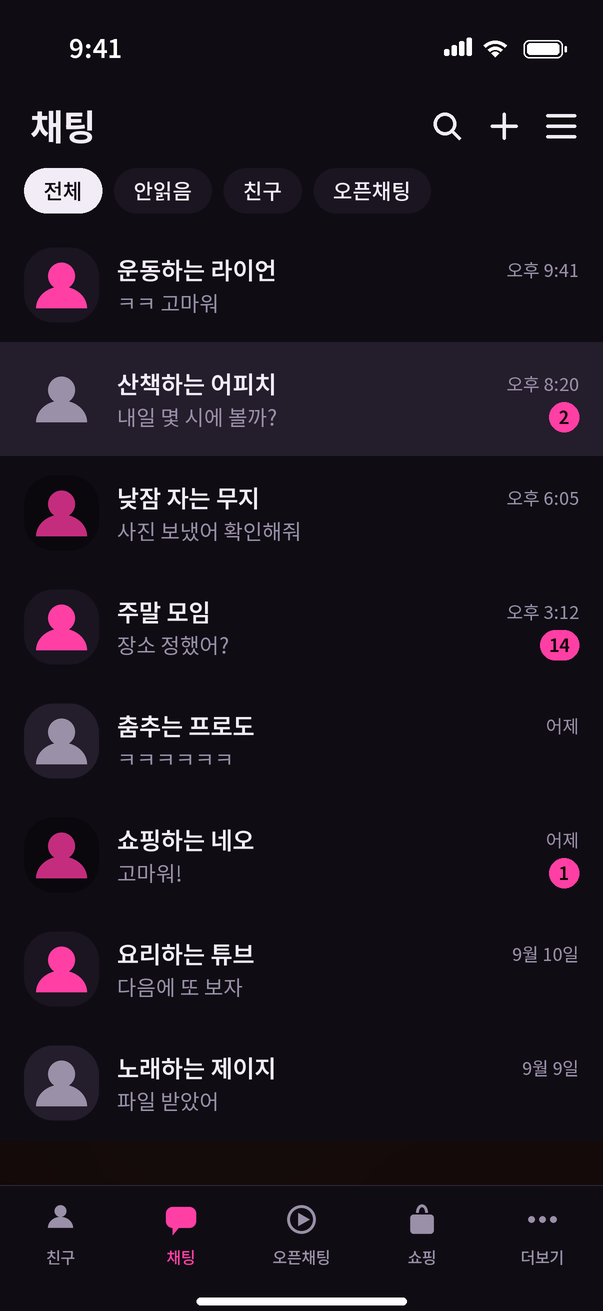
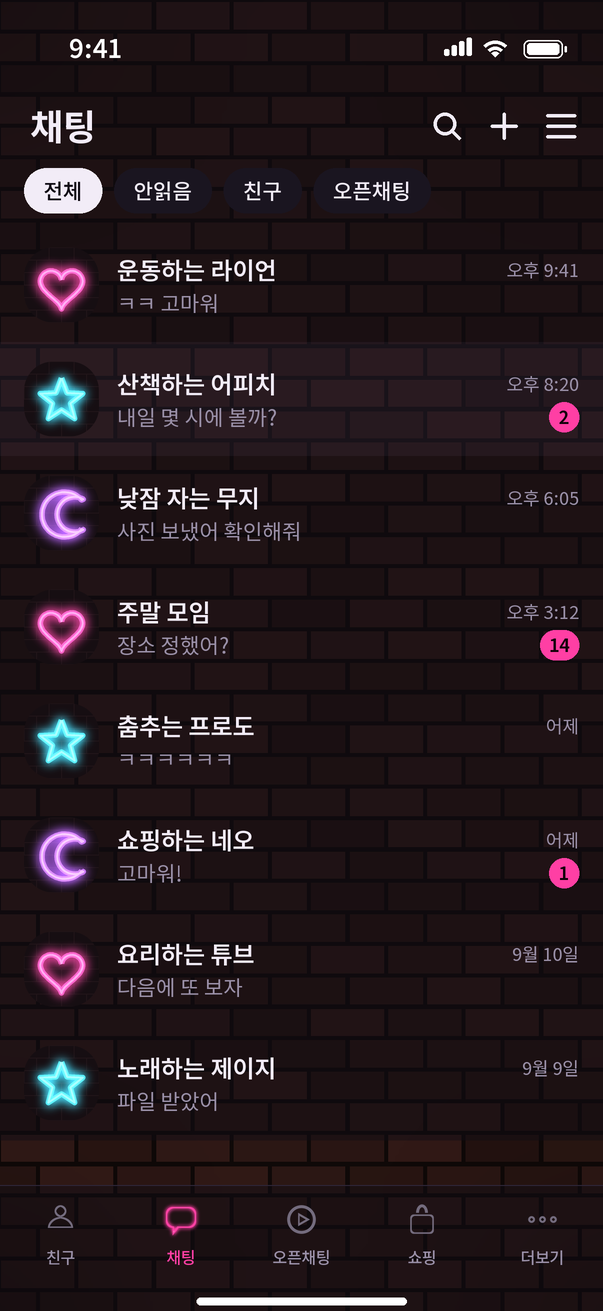
네온사인 목록 화면에 네온 프로필과 탭 아이콘을 넣고 벽을 비치게 한다
목록은 색만 바꾼 검은 판에 기본 사람 모양 프로필이 줄지어 있어서 채팅방과 달리 아무 테마나
같아 보였다. 목록에서 테마가 바꿀 수 있는 자리를 셋 다 쓴다.

- 기본 프로필 세 장을 하트·별·초승달 네온관으로 그린다(charbubble.PROFILES 의 neon). 보낸 색,
  받은 색, 벽 낙서의 셋째 색이다
- 탭 아이콘은 같은 도형의 테두리만 남긴 네온관이다(gen.tab_icon_for, tab_style='neon'). 선택된
  탭만 불이 켜진다. tab_style 이 없는 테마는 기존 tab_icon 을 그대로 부른다
- 목록 배경은 낙서를 뺀 벽돌 질감을 흐리지 않고 깔고(flat_list=False) 셀을 반투명(0.5)하게 둔다.
  줄눈만 반복되는 무늬라 칩 줄이나 광고 카드에 잘려도 자국이 안 남는다

말풍선·CSS·프로필·탭 아이콘·colors.xml·목록 배경 해시를 대조해, 바뀐 것은 네온사인 네 벌뿐이다.

diff --git a/tools/gen.py b/tools/gen.py
@@ -1060,7 +1060,7 @@ def gen_ios(t, root):
         name = 'maintabIco' + kind.capitalize()
         for suffix, col in (('', t['subtext']), ('Selected', t['accent'])):
             for scale in (2, 3):
-                tab_icon(kind, 28 * scale, col).save(
+                tab_icon_for(t, kind, 28 * scale, suffix == 'Selected').save(
                     os.path.join(img_dir, '%s%s@%dx.png' % (name, suffix, scale)))
         tab_lines.append("    -ios-%s-normal-icon-image: '%s.png';" % (kind, name))
         tab_lines.append("    -ios-%s-selected-icon-image: '%sSelected.png';"
@@ -1273,7 +1273,7 @@ def gen_android(t, root, code):
 
     for kind in TAB_KINDS:
         for suffix, col in (('', t['subtext']), ('_focused', t['accent'])):
-            tab_icon(kind, 84, col).save(
+            tab_icon_for(t, kind, 84, suffix == '_focused').save(
                 os.path.join(draw, 'theme_maintab_ico_%s%s_image.png' % (kind, suffix)))
 
     for i in range(3):
@@ -1529,6 +1529,51 @@ def tab_icon(kind, px, color, ss=4):
         raise ValueError('모르는 탭 아이콘: %s' % kind)
 
     return img.resize((px, px), Image.LANCZOS)
+
+
+def tab_icon_for(t, kind, px, selected):
+    """테마의 탭 아이콘. 보통은 보조색, 선택은 포인트색이다.
+
+    tab_style 이 없는 테마는 tab_icon 을 그대로 부른다 — 이미 나간 테마의 아이콘이 한 픽셀도
+    바뀌면 안 된다. 네온사인은 같은 도형을 네온관으로 그린다(neon_tab_icon).
+    """
+    col = t['accent'] if selected else t['subtext']
+    if t.get('tab_style') == 'neon':
+        return neon_tab_icon(kind, px, col, selected)
+    return tab_icon(kind, px, col)
+
+
+def neon_tab_icon(kind, px, color, lit):
+    """네온관 탭 아이콘. 기본 도형의 테두리만 관으로 남긴다.
+
+    선택된 탭은 관이 달아오르고 가운데가 하얗게 타며 빛이 번진다. 나머지는 불 꺼진 유리관이다 —
+    탭을 누를 때 불이 켜지는 것처럼 보인다. 채운 도형을 그대로 빛나게 하면 네온이 아니라
+    형광 스티커로 보여서 테두리만 남긴다. 가는 선(돋보기 테·원)은 깎아내면 사라지므로
+    선 굵기의 절반만 깎는다 — 굵은 면은 테두리만, 가는 선은 통째로 관이 된다.
+
+    기본 도형은 100 칸 네모의 14~86 안에 있어서 빛이 번질 여백이 있다.
+    """
+    S = px * 2
+    base = tab_icon(kind, S, color)
+    a = base.getchannel('A')
+    k = max(3, int(S * 0.036) * 2 + 1)
+    tube = ImageChops.subtract(a, a.filter(ImageFilter.MinFilter(k)))
+    out = Image.new('RGBA', (S, S), (0, 0, 0, 0))
+
+    def put(col, alpha):
+        lay = Image.new('RGBA', (S, S), rgb(col) + (255,))
+        lay.putalpha(alpha)
+        out.alpha_composite(lay)
+
+    if lit:
+        halo = tube.filter(ImageFilter.GaussianBlur(S * 0.045)).point(lambda v: min(255, int(v * 1.8)))
+        put(color, halo)
+        put(color, tube)
+        core = tube.filter(ImageFilter.MinFilter(max(3, k // 2 | 1)))
+        put(glow_tint(color, 0.75), core)
+    else:
+        put(mix(color, '#000000', 0.25), tube)
+    return out.resize((px, px), Image.LANCZOS)
 
 
 if __name__ == '__main__':

diff --git a/tools/charbubble.py b/tools/charbubble.py
@@ -654,9 +654,15 @@ def c_mailbox(p):
 
 CHARS = {'kongkong': c_kongkong, 'sock': c_sock, 'bulb': c_bulb, 'mailbox': c_mailbox}
 
+# 펜으로 그리지 않고 한 장을 통째로 만드는 프로필. 빛이 번지는 그림처럼 Pen 의 바탕 위 선 그리기로
+# 안 되는 것이 여기 온다. 이름 -> fn(t, idx, px)
+PROFILES = {}
+
 
 def profile(t, idx, px):
     """기본 프로필. 캐릭터를 바탕 세 가지 색 위에 그린다 — 세 장이 섞여 배정된다."""
+    if t['char'] in PROFILES:
+        return PROFILES[t['char']](t, idx, px)
     k = 3
     im = Image.new('RGB', (px * k, px * k), hexc(t['char_backs'][idx % 3])[:3])
     CHARS[t['char']](Pen(im, px * k / 100.0, t['char_outline']))
@@ -1114,3 +1120,44 @@ STYLES.update({
     'neon_electrode': dict(bw=40, bh=44, radius=12, draw=d_neon_electrode, features=f_neon_electrode),
     'neon_speech':    dict(bw=40, bh=44, radius=18, draw=d_neon_speech, features=f_neon_speech),
 })
+
+
+def p_neon(t, idx, px):
+    """네온사인 기본 프로필. 어두운 벽돌 조각 위에 하트·별·초승달 네온관 하나.
+
+    세 장이 하트는 보낸 색, 별은 받은 색, 초승달은 벽 낙서의 셋째 색이다. 목록 화면에서 가장 많이
+    반복되는 그림이라, 색만 바꾼 기본 사람 모양일 때는 목록이 테마와 따로 놀았다.
+    36pt 에서 읽혀야 해서 관을 굵게(폭의 7.5%) 두고 모양은 윤곽이 단순한 것만 쓴다.
+    """
+    import scenes
+    g = _g()
+    k = 3
+    S = px * k
+    img = Image.new('RGB', (S, S), (22, 14, 18))
+    d = ImageDraw.Draw(img)
+    bh = S / 6
+    mortar = (34, 22, 26)
+    for j in range(7):                                   # 벽돌 줄눈. 아주 옅게
+        y = j * bh
+        d.line([(0, y), (S, y)], fill=mortar, width=max(1, S // 90))
+        off = S / 6 if j % 2 else 0
+        for i in range(4):
+            x = off + i * S / 3
+            d.line([(x, y), (x, y + bh)], fill=mortar, width=max(1, S // 90))
+    kind = ('heart', 'star', 'moon')[idx % 3]
+    col = (_c(t['send']), _c(t['recv']), t.get('neon_third', '#B45CFF'))[idx % 3]
+    lay = Image.new('RGB', (S, S))
+    core = Image.new('RGB', (S, S))
+    ld, cd = ImageDraw.Draw(lay), ImageDraw.Draw(core)
+    cx = S / 2 + (S * 0.04 if kind == 'moon' else 0)
+    for line in scenes._neon_doodle(kind, cx, S / 2 + S * 0.02, S * 0.3):
+        ld.line(line, fill=g.rgb(col), width=int(S * 0.075), joint='curve')
+        cd.line(line, fill=g.rgb(g.glow_tint(col, 0.75)), width=int(S * 0.028), joint='curve')
+    halo = lay.filter(ImageFilter.GaussianBlur(S * 0.07)).point(lambda v: min(255, int(v * 1.7)))
+    img = ImageChops.screen(img, halo)
+    img = ImageChops.screen(img, lay)
+    img = ImageChops.screen(img, core)
+    return img.resize((px, px), Image.LANCZOS).convert('RGBA')
+
+
+PROFILES['neon'] = p_neon

diff --git a/tools/themes.py b/tools/themes.py
@@ -1757,7 +1757,14 @@ def _neon_theme(no, variant, style, material, recv, send, recv_text, send_text, 
                 accent=send, accent_dim=accent_dim,
                 send=(send, send), send_alt=(send, send), recv=(recv, recv), recv_alt=(recv, recv),
                 send_text=send_text, recv_text=recv_text,
-                chat_bg=wall(5, 0.45), main_bg=wall(4, 0.6), passcode_bg=wall(6, 0.12))
+                # 프로필은 벽 낙서의 셋째 색까지 세 장. 탭 아이콘도 네온관이다
+                char='neon', neon_third=signs[2][1], tab_style='neon',
+                # 목록 배경은 셀·칩·광고 카드에 잘리므로 낙서를 빼고 벽돌 질감만 둔다. 줄눈만 반복되는
+                # 무늬라 어디서 잘려도 같아서 흐리지 않고(flat_list=False), 셀을 반투명하게 해 벽이 비치게 한다
+                flat_list=False, cell_alpha=0.5,
+                chat_bg=wall(5, 0.45), passcode_bg=wall(6, 0.12),
+                main_bg=('neonwall', '#3A1F1B', '#140C0B',
+                         dict(signs=[], count=0, dim=0.22, dim_to='#000000')))
 
 
 THEMES += [

diff --git a/tools/preview.py b/tools/preview.py
@@ -493,7 +493,7 @@ def chat_list(t):
     for i, (label, kind) in enumerate(tabs):
         cx = PW * (i + 0.5) / len(tabs)
         c = t['accent'] if i == 1 else t['subtext']
-        ic = gen.tab_icon(kind, u(28), c)
+        ic = gen.tab_icon_for(t, kind, u(28), i == 1)
         img.paste(ic, (u(cx - 14), u(PH - TAB_H + 9)), ic)
         text(d, cx, PH - TAB_H + 48, label, 10.5, rgb(c), 500, 'mm')
 

diff --git a/CLAUDE.md b/CLAUDE.md
@@ -178,7 +178,13 @@ release.ps1         → 태그 + 릴리스 자산 첨부
 **네온사인도 예외다.** 네 벌이 곧 말풍선 디자인 네 가지(이중관·간판·전극·말꼬리)다 —
 스테인드 글래스가 색 네 개로 네 벌을 채운 것과 같다. 네온은 밝은 바탕에서 빛이 안 보여서
 캐릭터 계열의 밝음/어두움 축이 맞지 않는다. 네 벌 모두 어두운 바탕에 네온 벽 배경을 깔고,
-글로우는 재질로 붙는다(관은 `tube`, 간판은 `sign`). 기본 프로필 캐릭터는 아직 없다.
+글로우는 재질로 붙는다(관은 `tube`, 간판은 `sign`).
+
+**목록 화면도 테마로 읽혀야 한다.** 네온사인 목록은 한때 색만 바꾼 검은 판에 기본 사람 모양 프로필이
+줄지어 있어서, 채팅방과 달리 아무 테마나 같아 보였다. 목록에서 테마가 바꿀 수 있는 자리는
+배경 그림, 셀 투명도, 기본 프로필 세 장, 탭 아이콘이다 — 셋 다 쓴다. 프로필은 하트·별·초승달
+네온관(`charbubble.PROFILES`), 탭 아이콘은 같은 도형의 테두리만 남긴 네온관(`tab_style='neon'`,
+선택된 탭만 불이 켜진다), 목록 배경은 낙서를 뺀 벽돌 질감을 흐리지 않고 깔고 셀을 반투명(0.5)하게 둔다.
 
 예외는 여기 적어두고, 적지 않은 계열은 전부 네 벌이어야 한다.
 
@@ -345,7 +351,7 @@ GitHub 앱에서 WebP 가 뜨는지는 확인 전이다.
 크게 흐리고 대비를 죽여 내보낸다(`gen.background(..., flat=True)`).
 채팅방과 잠금화면은 위에 얹히는 게 적어서 그림 그대로 쓴다.
 
-**방향만 있고 굴곡이 없는 질감은 흐리지 않는다**(`flat_list=False`). 나무결이 그렇다 —
+**방향만 있고 굴곡이 없는 질감은 흐리지 않는다**(`flat_list=False`). 나무결과 벽돌 줄눈이 그렇다 —
 어디서 잘라도 같은 무늬라 위에 무엇이 얹혀도 잘린 자국이 안 생긴다. 흐리면 그냥 갈색 판이 되어
 질감을 넣은 뜻이 없어진다. 옹이나 판자 이음새는 그 성질을 깨므로 목록 쪽 그림에서는 뺀다.
 

diff --git a/docs/spec.md b/docs/spec.md
@@ -115,8 +115,8 @@
 | **도형 무늬** | 큰 도형을 겹침 (`geo`) | 도형 |
 | **가장자리 빛** | 화면 테두리에서 안쪽으로 번지는 빛 | 글로우 있는 테마 |
 | **네 칸 다른 색** | 보통/눌림/그룹 칸에 서로 다른 색 | 믹스드, 캔디 팝 |
-| **탭 아이콘** | 7종 × 보통/선택을 팔레트 색으로 그림 | 전부 |
-| **기본 프로필 3장** | 색이 다른 세 장. 앱이 친구마다 돌려 배정 | 전부 |
+| **탭 아이콘** | 7종 × 보통/선택을 팔레트 색으로 그림. 네온사인은 같은 도형의 테두리만 남긴 네온관(선택된 탭만 불이 켜짐) | 전부 |
+| **기본 프로필 3장** | 색이 다른 세 장. 앱이 친구마다 돌려 배정. 캐릭터 계열은 캐릭터, 네온사인은 하트·별·초승달 네온관 | 전부 |
 | **대화 밀도** | 글자 여백으로 두툼/촘촘을 가름 (`density`) | 아직 안 씀 |
 
 배경은 두 갈래임 — **색면**(`linear` / `blobs` / `aurora`)과 **그림**(`night`).
